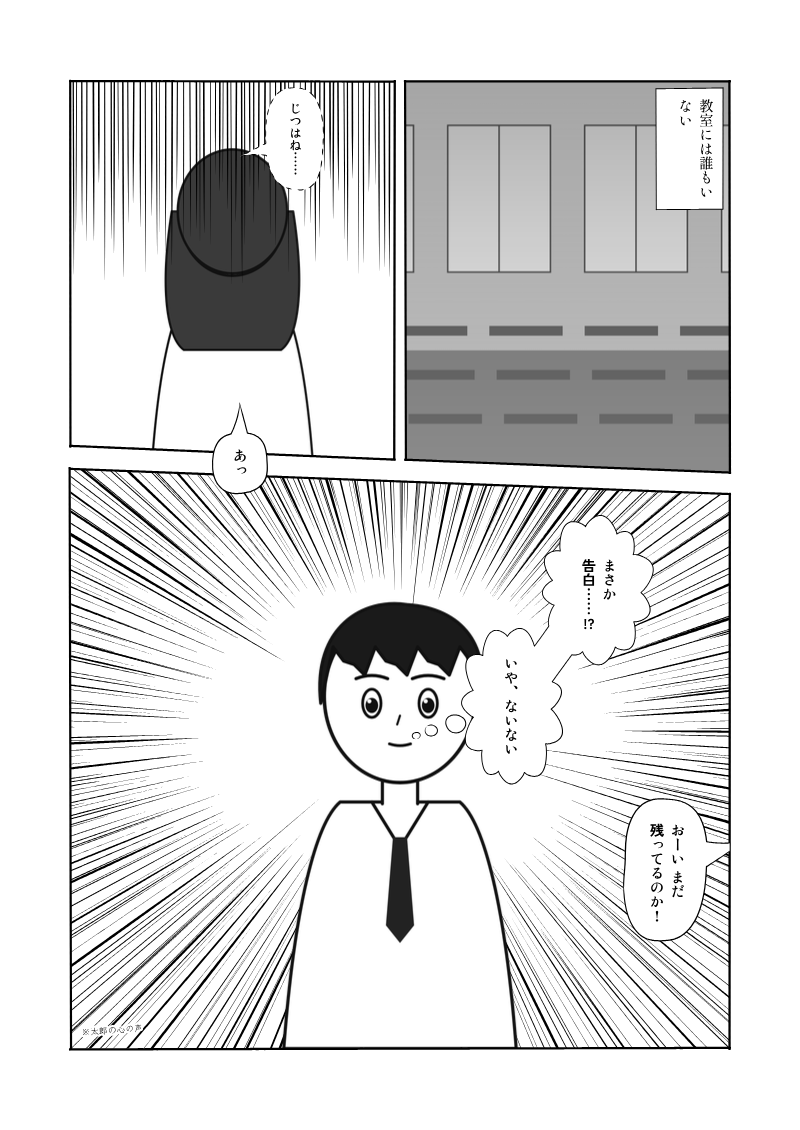
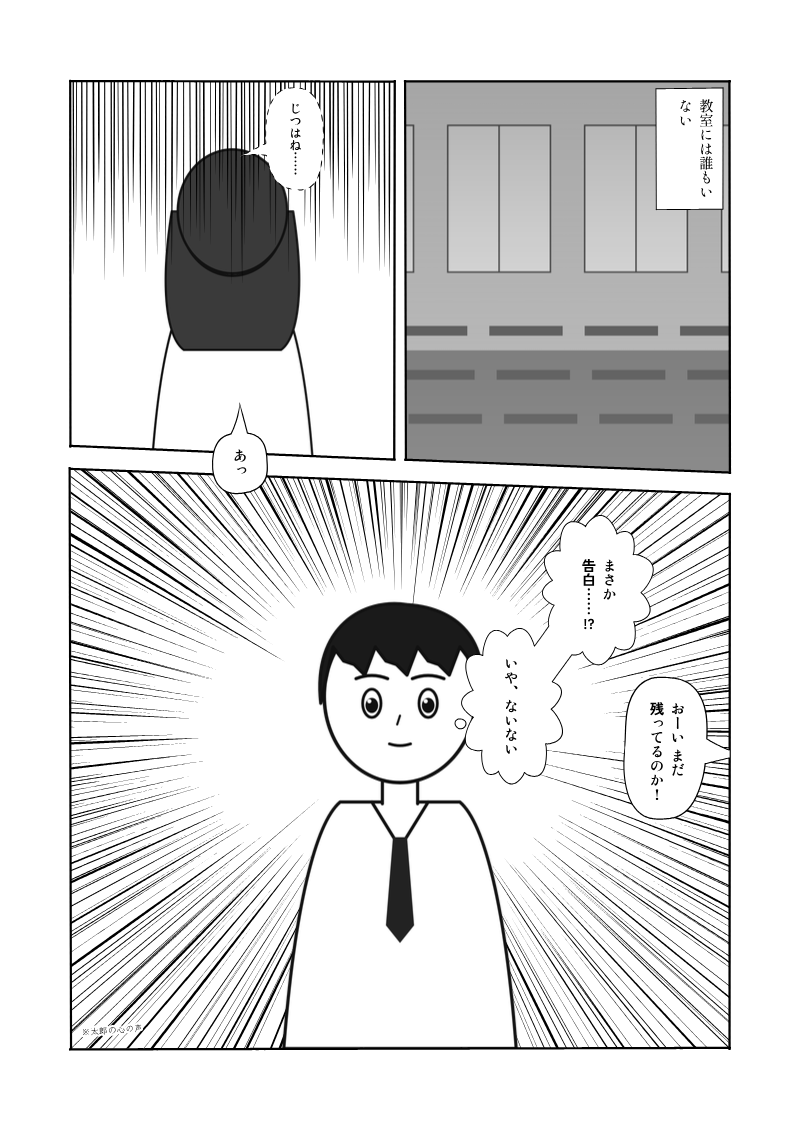
吹き出しの読み順の評価を上端基準にし、顔を楕円として避け、尻尾を顔の輪郭の手前で止める。セリフの省略形を他のキーと併記できるようにする

Changed region(s): [[0.7812, 0.5885, 0.9062, 0.8363], [0.5625, 0.6195, 0.5938, 0.6504]]

diff --git a/src/render/compose.ts b/src/render/compose.ts
@@ -650,7 +650,7 @@ function placeBalloons(plans: BalloonPlan[], ctx: ElemCtx, refs: RefRegistry, pr
   const geom = ctx.geom;
   const rtl = geom.rtl;
   const panelBox = ctx.panel ? ctx.panel.box : geom.baseFrame;
-  const obstacles: { r: Rect; w: number }[] = [];
+  const obstacles: { r: Rect; w: number; ellipse?: boolean }[] = [];
   for (const it of processed.values()) {
     const el = (it as { el?: RElement }).el;
     if (el && (el.type === "text" || el.type === "sfx") && rectIntersect(it.bbox, panelBox)) obstacles.push({ r: it.bbox, w: 50 });
@@ -659,7 +659,8 @@ function placeBalloons(plans: BalloonPlan[], ctx: ElemCtx, refs: RefRegistry, pr
   const hard: Rect[] = [];
   for (const t of refs.all()) {
     if (t.type !== "image" || (pid && t.panelId !== pid)) continue;
-    for (const [k, rg] of Object.entries(t.regions)) if (k === "face" || k === "avoid") obstacles.push({ r: rg.bbox, w: 60 });
+    // faces are roughly elliptical: the corners of the face box are free space
+    for (const [k, rg] of Object.entries(t.regions)) if (k === "face" || k === "avoid") obstacles.push({ r: rg.bbox, w: 60, ellipse: k === "face" });
     if (t.anchors.mouth) hard.push({ x: t.anchors.mouth.x - 2 * u.k, y: t.anchors.mouth.y - 2 * u.k, w: 4 * u.k, h: 4 * u.k });
   }
   const placedRects: Rect[] = [];
@@ -680,10 +681,11 @@ function placeBalloons(plans: BalloonPlan[], ctx: ElemCtx, refs: RefRegistry, pr
   // text must stay inside the safe area even in bled panels
   if (u.units !== "px") area = rectIntersect(area, geom.safe) ?? area;
   let prevS: number | null = null;
-  const sOf = (c: Vec) => {
+  // reading position of a balloon from its top edge: mostly top-to-bottom, then right-to-left (rtl)
+  const sOf = (c: Vec, h: number) => {
     const xn = (c.x - area.x) / Math.max(1, area.w);
-    const yn = (c.y - area.y) / Math.max(1, area.h);
-    return 0.55 * yn + (rtl ? -0.45 : 0.45) * xn;
+    const yn = (c.y - h / 2 - area.y) / Math.max(1, area.h);
+    return 0.8 * yn + (rtl ? -0.2 : 0.2) * xn;
   };
   // flow cursor
   let flowX = rtl ? area.x + area.w : area.x;
@@ -691,7 +693,7 @@ function placeBalloons(plans: BalloonPlan[], ctx: ElemCtx, refs: RefRegistry, pr
   let rowH = 0;
   for (const pl of plans) {
     if (pl.explicit) {
-      prevS = sOf(pl.center!);
+      prevS = sOf({ x: pl.center!.x + pl.outer.x + pl.outer.w / 2, y: pl.center!.y + pl.outer.y + pl.outer.h / 2 }, pl.outer.h);
       continue;
     }
     const mode = isObj(pl.props.autoPlace) ? ((pl.props.autoPlace as Obj).mode as string) ?? "auto" : (pl.props.autoPlace as string) ?? "auto";
@@ -708,7 +710,7 @@ function placeBalloons(plans: BalloonPlan[], ctx: ElemCtx, refs: RefRegistry, pr
       setCenter(pl, { x: cx - (pl.outer.x + w / 2), y: cy - (pl.outer.y + h / 2) });
       flowX += rtl ? -(w + 1 * u.k) : w + 1 * u.k;
       rowH = Math.max(rowH, h);
-      prevS = sOf({ x: cx, y: cy });
+      prevS = sOf({ x: cx, y: cy }, h);
       continue;
     }
     const who = pl.props.who as string | undefined;
@@ -723,13 +725,13 @@ function placeBalloons(plans: BalloonPlan[], ctx: ElemCtx, refs: RefRegistry, pr
         const rect = { x: x - w / 2, y: y - h / 2, w, h };
         const A = w * h;
         let cost = 0;
-        const s = sOf(c);
+        const s = sOf(c, h);
         if (prevS === null) {
           const cornerX = rtl ? area.x + area.w : area.x;
           cost += 4 * (Math.hypot((x - cornerX) / area.w, (y - area.y) / area.h));
-        } else cost += 4 * 10 * Math.max(0, prevS + 0.04 - s);
+        } else cost += 120 * Math.max(0, prevS + 0.02 - s);
         for (const pr of placedRects) cost += 50 * (rectOverlapArea(rect, pr) / A);
-        for (const ob of obstacles) cost += ob.w * (rectOverlapArea(rect, ob.r) / A);
+        for (const ob of obstacles) cost += ob.w * (ob.ellipse ? ellipseOverlap(rect, ob.r) : rectOverlapArea(rect, ob.r) / A);
         for (const hr of hard) if (rectOverlapArea(rect, hr) > 0) cost += 1000;
         if (sils.length) cost += 6 * silhouetteCover(rect, sils);
         if (speaker) {
@@ -751,8 +753,26 @@ function placeBalloons(plans: BalloonPlan[], ctx: ElemCtx, refs: RefRegistry, pr
     if (!best) best = { c: center(area), cost: 999 };
     if (best.cost > 25) ctx.bag.warn("BALLOON_NO_SPACE", `no good position for balloon ${pl.el.id}`, { path: pl.el.path, elementId: pl.el.id });
     setCenter(pl, { x: best.c.x - (pl.outer.x + w / 2), y: best.c.y - (pl.outer.y + h / 2) });
-    prevS = sOf(best.c);
+    prevS = sOf(best.c, h);
   }
+}
+
+/** fraction of rect `r` covered by the ellipse inscribed in `e` (sampled) */
+function ellipseOverlap(r: Rect, e: Rect): number {
+  if (!rectIntersect(r, { x: e.x - e.w * 0.06, y: e.y - e.h * 0.06, w: e.w * 1.12, h: e.h * 1.12 })) return 0;
+  const cx = e.x + e.w / 2;
+  const cy = e.y + e.h / 2;
+  // a little breathing room around the face
+  e = { x: cx - e.w * 0.56, y: cy - e.h * 0.56, w: e.w * 1.12, h: e.h * 1.12 };
+  const N = 8;
+  let hit = 0;
+  for (let j = 0; j < N; j++)
+    for (let i = 0; i < N; i++) {
+      const dx = (r.x + (r.w * (i + 0.5)) / N - cx) / (e.w / 2);
+      const dy = (r.y + (r.h * (j + 0.5)) / N - cy) / (e.h / 2);
+      if (dx * dx + dy * dy <= 1) hit++;
+    }
+  return hit / (N * N);
 }
 
 function segRect(a: Vec, b: Vec, r: Rect): boolean {

diff --git a/src/elements/balloon.ts b/src/elements/balloon.ts
@@ -347,22 +347,22 @@ interface TailResult {
 }
 
 /** distance along ray to entering a rect (null if missed) */
-function rayRectEntry(o: Vec, d: Vec, r: Rect): number | null {
-  let t0 = -Infinity;
-  let t1 = Infinity;
-  for (const [p, dd, lo, hi] of [[o.x, d.x, r.x, r.x + r.w], [o.y, d.y, r.y, r.y + r.h]] as [number, number, number, number][]) {
-    if (Math.abs(dd) < 1e-12) {
-      if (p < lo || p > hi) return null;
-      continue;
-    }
-    let a = (lo - p) / dd;
-    let b = (hi - p) / dd;
-    if (a > b) [a, b] = [b, a];
-    t0 = Math.max(t0, a);
-    t1 = Math.min(t1, b);
-  }
-  if (t1 < Math.max(0, t0)) return null;
-  return t0 > 0 ? t0 : null;
+/** distance along the ray to the ellipse inscribed in `r`; 0 when the origin is already inside */
+function rayEllipseEntry(o: Vec, d: Vec, r: Rect): number | null {
+  const a = r.w / 2;
+  const b = r.h / 2;
+  const px = (o.x - (r.x + a)) / a;
+  const py = (o.y - (r.y + b)) / b;
+  const dx = d.x / a;
+  const dy = d.y / b;
+  const A = dx * dx + dy * dy;
+  const B = 2 * (px * dx + py * dy);
+  const C = px * px + py * py - 1;
+  if (C <= 0) return 0;
+  const disc = B * B - 4 * A * C;
+  if (disc < 0 || A < 1e-12) return null;
+  const t = (-B - Math.sqrt(disc)) / (2 * A);
+  return t > 0 ? t : null;
 }
 
 function quad(a: Vec, c: Vec, b: Vec, t: number): Vec {
@@ -427,8 +427,8 @@ function applyTails(contour: ShapeContour, tails: Obj[], tc: TailCtx): TailResul
       const tgtRef = typeof t.to === "string" ? ctx.refs.target(t.to, ctx.panel?.panel.id) : who ? ctx.refs.target(who, ctx.panel?.panel.id) : undefined;
       const face = tgtRef?.regions.face?.bbox;
       if (face) {
-        const tf = rayRectEntry(R, dir, face);
-        if (tf !== null && tf > 0) avail = Math.min(avail, tf - gap * 0.5);
+        const tf = rayEllipseEntry(R, dir, face);
+        if (tf !== null) avail = Math.min(avail, tf - gap * 0.5);
       }
       length = Math.min(maxLen, Math.max(2.5 * u.k, avail));
     } else length = (kind === "zigzag" ? 7 : 5) * u.k;

diff --git a/src/load/normalize.ts b/src/load/normalize.ts
@@ -151,12 +151,18 @@ function normDialogue(lines: unknown, path: Path, bag: DiagnosticBag, characters
     if (typeof ln === "string") return { text: ln };
     if (!isObj(ln)) return ln;
     const keys = Object.keys(ln);
+    let out: Obj = { ...ln };
     if (keys.length === 1 && !["text", "who", "as"].includes(keys[0])) {
       const who = keys[0];
       if (!characters.has(who)) bag.error("REF_NOT_FOUND", `unknown character "${who}" in dialogue`, { path: [...path, i] });
       return { who, text: ln[who] };
     }
-    const out: Obj = { ...ln };
+    // `<character>: text` combined with other balloon properties ({ taro: えっ, as: shout })
+    const charKeys = keys.filter((k) => characters.has(k));
+    if (charKeys.length === 1 && !("who" in ln) && !("text" in ln)) {
+      const who = charKeys[0];
+      out = { who, text: ln[who], ...Object.fromEntries(Object.entries(ln).filter(([k]) => k !== who)) };
+    }
     if ("stroke" in out) out.stroke = normStroke(out.stroke, [...path, i, "stroke"], bag);
     if (typeof out.shape === "string") out.shape = { kind: out.shape };
     if ("tail" in out) out.tail = normTail(out.tail);

diff --git a/docs/06-balloons.md b/docs/06-balloons.md
@@ -390,7 +390,7 @@ panels:
 
 | キー | 型 | 説明 |
 |---|---|---|
-| `<キャラクター ID>: 本文` | - | 省略形。`{ who: <ID>, text: 本文 }` と同じ |
+| `<キャラクター ID>: 本文` | - | 省略形。`{ who: <ID>, text: 本文 }` と同じ。`{ taro: えっ!?, as: shout }` のように他のキーと併記できる |
 | `who` | キャラクター ID | 話者 |
 | `text` | 文字列 | 本文 |
 | `as` | 発話の種類 | 既定 `say`。`narration` では話者を省略できる |
